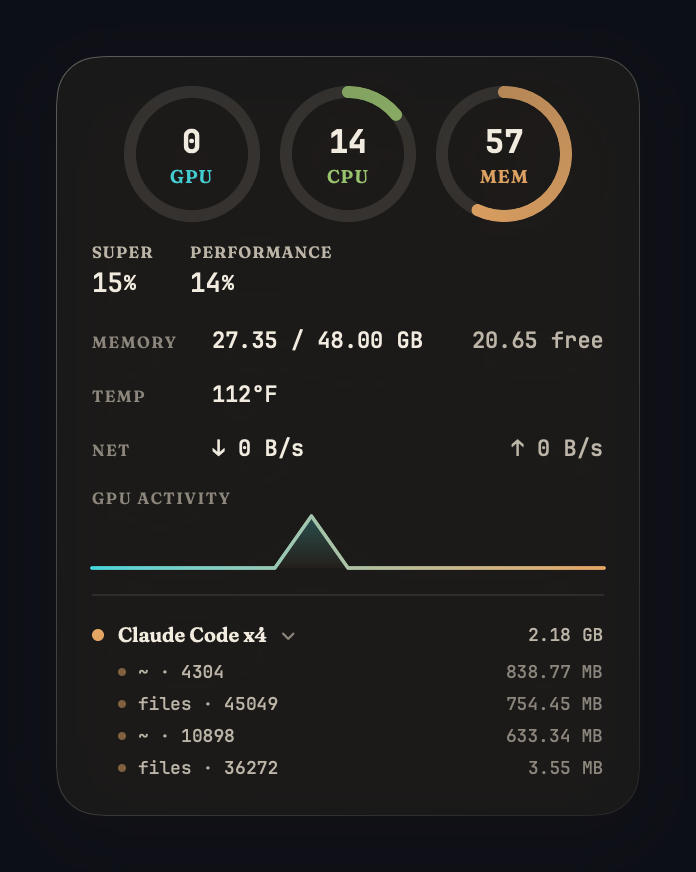
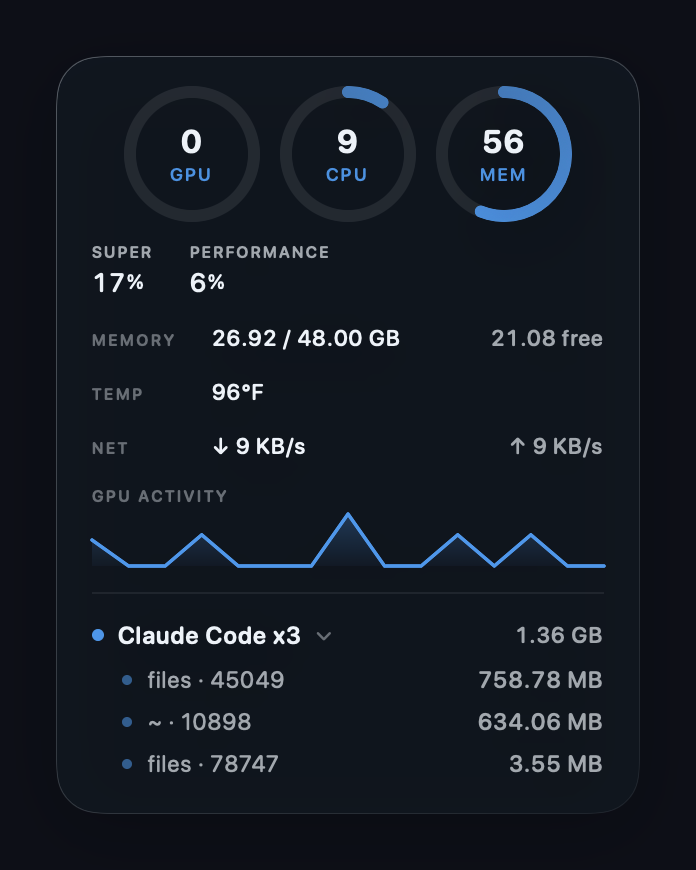
Restyle to Sierra 3-color palette + SF Pro Rounded; fix window corners; larger drill-down
- Drop serif (Fraunces) and JetBrains Mono; all type is SF Pro Rounded with tabular digits.
- Three-color palette from the mountain photo: snow text, deep sky-blue accent, dark slate.
  All gauges/sparkline/dots use the single sky accent.
- Fix sharp corners: window hasShadow off (SwiftUI draws the rounded shadow), NSHostingController
  auto-sizes the borderless window with transparent padding for the shadow.
- Larger, legible per-session drill-down rows; 2-decimal smart memory units.

diff --git a/Sources/MonitorIsland/Theme.swift b/Sources/MonitorIsland/Theme.swift
@@ -1,63 +1,50 @@
 import SwiftUI
 
-// Color palette and font helpers for the Monitor Island redesign.
-// Hues are lifted from the prompt-weaver identity and brightened for dark glass legibility.
+// Three-color palette drawn from the Sierra mountain photo: snow white, deep sky
+// blue, dark slate. Everything else is an opacity of one of these three.
+// Anthropic-clean: SF Pro Rounded for all type (no serif, no mono face).
 enum Theme {
-    // Accent hues (brightened for dark glass).
-    static let teal    = Color(red: 0x46/255.0, green: 0xD6/255.0, blue: 0xDB/255.0) // #46D6DB
-    static let energy  = Color(red: 0xE6/255.0, green: 0xA7/255.0, blue: 0x65/255.0) // #E6A765
-    static let success = Color(red: 0x9F/255.0, green: 0xCB/255.0, blue: 0x72/255.0) // #9FCB72
-    static let amber   = Color(red: 0xE0/255.0, green: 0xB1/255.0, blue: 0x4E/255.0) // #E0B14E
-    static let danger  = Color(red: 0xE2/255.0, green: 0x70/255.0, blue: 0x5C/255.0) // #E2705C
+    // The 3 colors.
+    static let sky   = Color(red: 0x4F/255.0, green: 0x97/255.0, blue: 0xEA/255.0) // #4F97EA deep sky blue
+    static let snow  = Color(red: 0xEE/255.0, green: 0xF3/255.0, blue: 0xF9/255.0) // #EEF3F9 snow white
+    static let slate = Color(red: 0x16/255.0, green: 0x20/255.0, blue: 0x2A/255.0) // #16202A dark slate
 
-    // Warm cream text.
-    static let textPrimary   = Color(red: 0xF2/255.0, green: 0xEC/255.0, blue: 0xE0/255.0) // #F2ECE0
-    static let textSecondary = Color(red: 0xBD/255.0, green: 0xB6/255.0, blue: 0xA8/255.0) // #BDB6A8
-    static let textFaint     = Color(red: 0x8C/255.0, green: 0x86/255.0, blue: 0x7C/255.0) // #8C867C
+    // The single accent (all gauges / sparkline / dots use it).
+    static let accent = sky
 
-    // Warm espresso glass tint (overlaid on the material/glass).
-    static let glassTint = Color(red: 0x26/255.0, green: 0x23/255.0, blue: 0x1D/255.0) // rgb(38,35,29)
+    // Named aliases kept so the views compile; all map into the 3-color palette.
+    static let teal    = sky
+    static let energy  = sky
+    static let success = sky
+    static let amber   = sky
+    static let danger  = sky
 
-    // Faint warm specular highlight for the border.
-    static let specular = Color(red: 1.0, green: 0.97, blue: 0.92)
+    // Text = snow at three opacities.
+    static let textPrimary   = snow
+    static let textSecondary = snow.opacity(0.66)
+    static let textFaint     = snow.opacity(0.40)
 
-    // Warm-tinted shadow.
-    static let shadow = Color(red: 40/255.0, green: 30/255.0, blue: 15/255.0)
+    // Cool slate glass tint (overlaid on the material/glass).
+    static let glassTint = slate
+
+    // Snow specular highlight for the border.
+    static let specular = snow
+
+    // Neutral shadow.
+    static let shadow = Color.black
 
     static let cornerRadius: CGFloat = 22
 }
 
 extension Font {
-    // Fraunces (serif) for big captions / section titles. Falls back to system serif.
-    // Use explicit named instances per weight: SwiftUI's .weight() does not reliably
-    // pick a variable-font instance for a custom face, so we map to concrete PostScript names.
-    static func brand(_ size: CGFloat, weight: Font.Weight = .bold) -> Font {
-        if FontLoader.brandAvailable {
-            let name: String
-            switch weight {
-            case .black, .heavy: name = "Fraunces-Black"
-            case .bold:          name = "Fraunces-Bold"
-            case .semibold:      name = "Fraunces-SemiBold"
-            case .medium:        name = "Fraunces-SemiBold"
-            case .light, .thin, .ultraLight: name = "Fraunces-Light"
-            default:             name = "Fraunces-Regular"
-            }
-            return .custom(name, size: size)
-        }
-        return .system(size: size, weight: weight, design: .serif)
+    // Labels / captions: SF Pro Rounded (clean Apple sans, no serif).
+    static func brand(_ size: CGFloat, weight: Font.Weight = .semibold) -> Font {
+        .system(size: size, weight: weight, design: .rounded)
     }
 
-    // JetBrains Mono for numbers / values. Falls back to system monospaced.
-    static func mono(_ size: CGFloat, weight: Font.Weight = .regular) -> Font {
-        if FontLoader.monoAvailable {
-            let name: String
-            switch weight {
-            case .bold, .heavy, .black: name = "JetBrainsMono-Bold"
-            case .medium, .semibold:    name = "JetBrainsMono-Medium"
-            default:                    name = "JetBrainsMono-Regular"
-            }
-            return .custom(name, size: size)
-        }
-        return .system(size: size, weight: weight, design: .monospaced)
+    // Numbers / values: also SF Pro Rounded; callers add .monospacedDigit() so the
+    // digits stay tabular (no width jitter) while ticking.
+    static func mono(_ size: CGFloat, weight: Font.Weight = .medium) -> Font {
+        .system(size: size, weight: weight, design: .rounded)
     }
 }

diff --git a/Sources/MonitorIsland/IslandView.swift b/Sources/MonitorIsland/IslandView.swift
@@ -307,17 +307,17 @@ struct IslandView: View {
                 HStack(spacing: 7) {
                     Circle().fill(color).frame(width: 6, height: 6)
                     Text(w.count > 1 ? "\(w.label) x\(w.count)" : w.label)
-                        .font(.brand(10, weight: .semibold))
+                        .font(.brand(12, weight: .semibold))
                         .foregroundStyle(Theme.textPrimary)
                     if canDrill {
                         Image(systemName: "chevron.right")
-                            .font(.system(size: 7, weight: .bold))
+                            .font(.system(size: 8, weight: .bold))
                             .foregroundStyle(Theme.textFaint)
                             .rotationEffect(.degrees(isOpen ? 90 : 0))
                     }
                     Spacer(minLength: 4)
                     Text(fmtMem(w.memoryMB))
-                        .font(.mono(9, weight: .regular))
+                        .font(.mono(11, weight: .medium))
                         .monospacedDigit()
                         .foregroundStyle(Theme.textSecondary)
                 }
@@ -326,23 +326,24 @@ struct IslandView: View {
             .buttonStyle(.plain)
 
             if canDrill && isOpen {
-                VStack(alignment: .leading, spacing: 4) {
+                VStack(alignment: .leading, spacing: 7) {
                     ForEach(w.instances, id: \.pid) { inst in
-                        HStack(spacing: 6) {
-                            Circle().fill(color.opacity(0.5)).frame(width: 4, height: 4)
+                        HStack(spacing: 8) {
+                            Circle().fill(color.opacity(0.55)).frame(width: 5, height: 5)
                             Text(inst.label)
-                                .font(.mono(9, weight: .regular))
+                                .font(.mono(11.5, weight: .regular))
                                 .foregroundStyle(Theme.textSecondary)
                                 .lineLimit(1).truncationMode(.middle)
-                            Spacer(minLength: 4)
+                            Spacer(minLength: 6)
                             Text(fmtMem(inst.memoryMB))
-                                .font(.mono(9, weight: .regular))
+                                .font(.mono(11.5, weight: .medium))
                                 .monospacedDigit()
-                                .foregroundStyle(Theme.textFaint)
+                                .foregroundStyle(Theme.textSecondary)
                         }
                     }
                 }
-                .padding(.leading, 13)
+                .padding(.leading, 15)
+                .padding(.top, 2)
                 .transition(.opacity.combined(with: .move(edge: .top)))
             }
         }
@@ -352,11 +353,11 @@ struct IslandView: View {
         HStack(spacing: 7) {
             Circle().fill(color).frame(width: 6, height: 6)
             Text(label)
-                .font(.brand(10, weight: .semibold))
+                .font(.brand(12, weight: .semibold))
                 .foregroundStyle(Theme.textPrimary)
             Spacer(minLength: 4)
             Text(value)
-                .font(.mono(9, weight: .regular))
+                .font(.mono(11, weight: .medium))
                 .monospacedDigit()
                 .foregroundStyle(Theme.textSecondary)
         }

diff --git a/Sources/MonitorIsland/AppDelegate.swift b/Sources/MonitorIsland/AppDelegate.swift
@@ -16,20 +16,19 @@ final class AppDelegate: NSObject, NSApplicationDelegate {
     }
 
     private func buildWindow() {
-        let hosting = NSHostingView(rootView: IslandView(model: model))
-        hosting.translatesAutoresizingMaskIntoConstraints = true
-
-        let win = NSWindow(
-            contentRect: NSRect(x: 0, y: 0, width: 220, height: 60),
-            styleMask: [.borderless],
-            backing: .buffered, defer: false)
+        // NSHostingController auto-sizes the borderless window to the SwiftUI content
+        // (so it grows/shrinks on expand with no clipped square edges). The transparent
+        // padding gives the rounded SwiftUI shadow room; the window shadow is OFF so
+        // there are no rectangular shadow corners poking out.
+        let host = NSHostingController(rootView: IslandView(model: model).padding(20))
+        let win = NSWindow(contentViewController: host)
+        win.styleMask = [.borderless]
         win.isOpaque = false
         win.backgroundColor = .clear
-        win.hasShadow = true
+        win.hasShadow = false
         win.level = .floating
         win.collectionBehavior = [.canJoinAllSpaces, .stationary, .fullScreenAuxiliary, .ignoresCycle]
         win.isMovableByWindowBackground = true
-        win.contentView = hosting
         win.contentView?.wantsLayer = true
 
         // Restore position, with off-screen fallback.